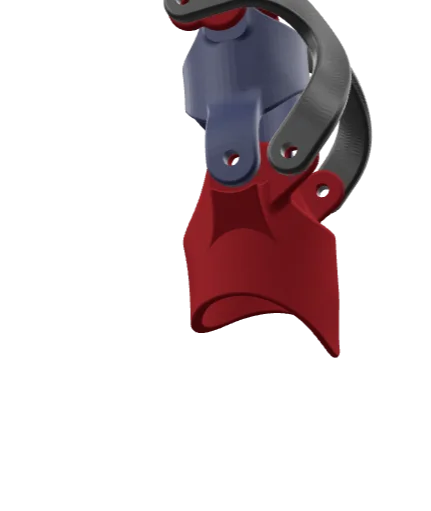
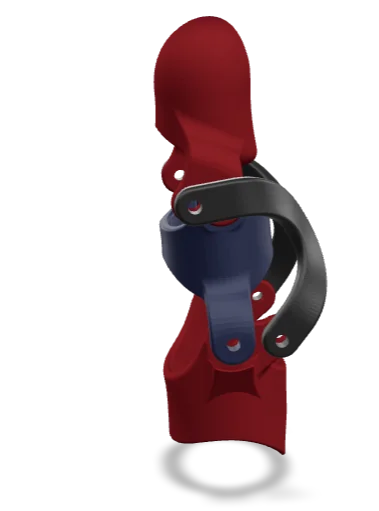
Added 3D model for Prostetic page

diff --git a/layouts/shortcodes/modelviewer_PROSTETIC.html b/layouts/shortcodes/modelviewer_PROSTETIC.html
@@ -70,7 +70,6 @@
     }
 
     .Hotspot {
-        --min-hotspot-opacity: 50;
         background: rgb(255, 255, 255);
         border-radius: 32px;
         border: 0px;
@@ -90,7 +89,7 @@
         right: 0;
         top: 0;
         bottom: 0;
-        background-image: url("../../img/portfolio/Prostetic/poster.webp");
+        background-image: url("../../img/portfolio/prostetic/poster.webp");
         background-size: contain;
         background-repeat: no-repeat;
         background-position: center;
@@ -119,13 +118,28 @@
 
 <model-viewer id="lazy-load" reveal="manual" src="/models/PROTHESE.glb" ar ar-modes="webxr scene-viewer quick-look"
     camera-controls poster="poster.webp" shadow-intensity="0.63" animation-name="ArmatureAction.002" autoplay
-    shadow-softness="0.83" camera-orbit="-515deg 99.88deg 136.1m" field-of-view="30deg" auto-rotate exposure="1.36">
+    shadow-softness="0.83" camera-orbit="-95.68deg 74.62deg 139.7m" field-of-view="30deg" auto-rotate exposure="1.36">
     <div class="progress-bar hide" slot="progress-bar">
         <div class="update-bar"></div>
     </div>
 
     <div id="lazy-load-poster" slot="poster"></div>
     <div id="button-load" slot="poster">Vue 3D</div>
+
+    <button class="Hotspot" slot="hotspot-1" data-surface="1 0 13595 13013 12976 0.527 0.023 0.451"
+        data-visibility-attribute="visible">
+        <div class="HotspotAnnotation">L2</div>
+    </button><button class="Hotspot" slot="hotspot-2" data-surface="2 0 4411 3738 3700 0.224 0.497 0.279"
+        data-visibility-attribute="visible">
+        <div class="HotspotAnnotation">L1</div>
+    </button><button class="Hotspot" slot="hotspot-3" data-surface="3 0 1193 1198 1202 0.084 0.112 0.805"
+        data-visibility-attribute="visible">
+        <div class="HotspotAnnotation">L4</div>
+    </button><button class="Hotspot" slot="hotspot-4" data-surface="0 0 7654 6128 6974 0.663 0.238 0.099"
+        data-visibility-attribute="visible">
+        <div class="HotspotAnnotation">L3</div>
+    </button>
+
 </model-viewer>
 
 <script>

diff --git a/content/portfolio/Prostetic/index.md b/content/portfolio/Prostetic/index.md
@@ -10,8 +10,6 @@ weight = 2
 Création d'une prothèse de doigt sur mesure
 <!--more-->
 
-{{< modelviewer_PROSTETIC >}}
-
  ---
 
 ## Présentation
@@ -21,4 +19,11 @@ Après une phase de mesure, j'ai pris de **nombreuses photos**, qui me serviront
 Le plus gros défi pour moi a été d'imaginer un **assemblage mécanique compact** et **élégant** permettant d'animer la phalange synthétique.  
 Suite à pas mal de recherche, c'est pour un mécanisme à **4 bars croisées** que j'ai opté :
 
-![Animation 4bar mechanism](/img/portfolio/Prostetic/X4bar.gif)
+![Animation 4bar mechanism](/img/portfolio/prostetic/X4bar.gif)
+
+Bien sûr, il faut un peu d'imagination, mais cela est plus clair lorsque que l'on positionne ce mécanisme en contexte.
+
+{{< modelviewer_PROSTETIC >}}
+
+Plusieurs itération ont été nécessaire pour s'adapter au mieux au doigt d'Adrien.  
+Ce processus à été acceleré grâce à l'impression 3D
